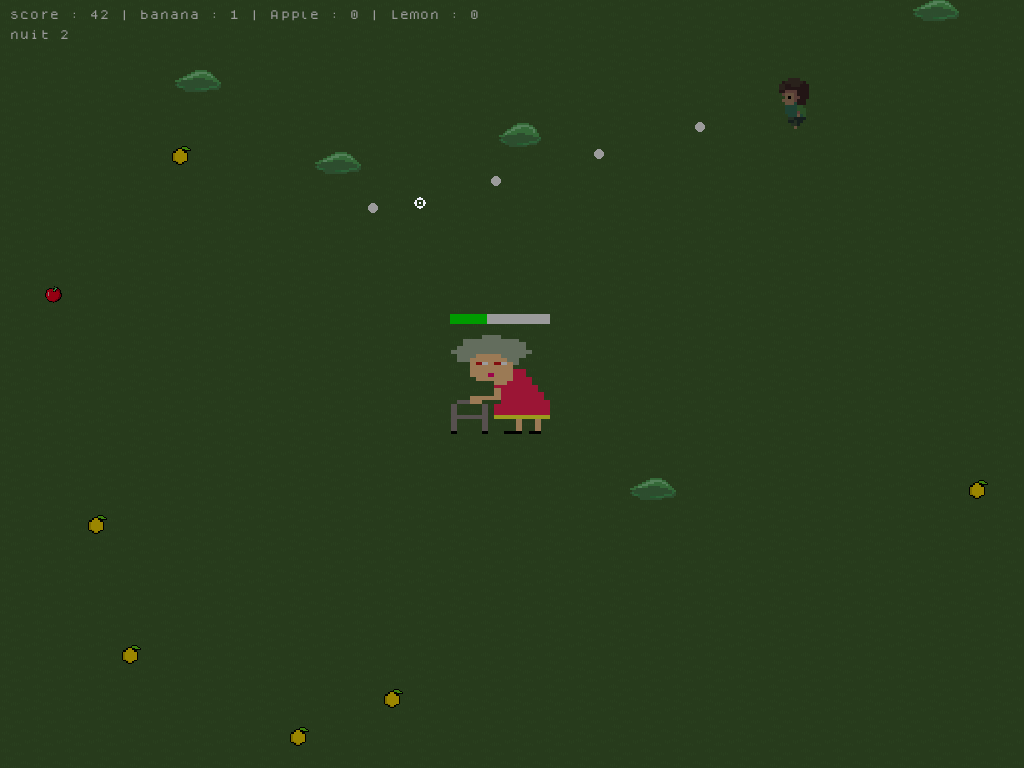
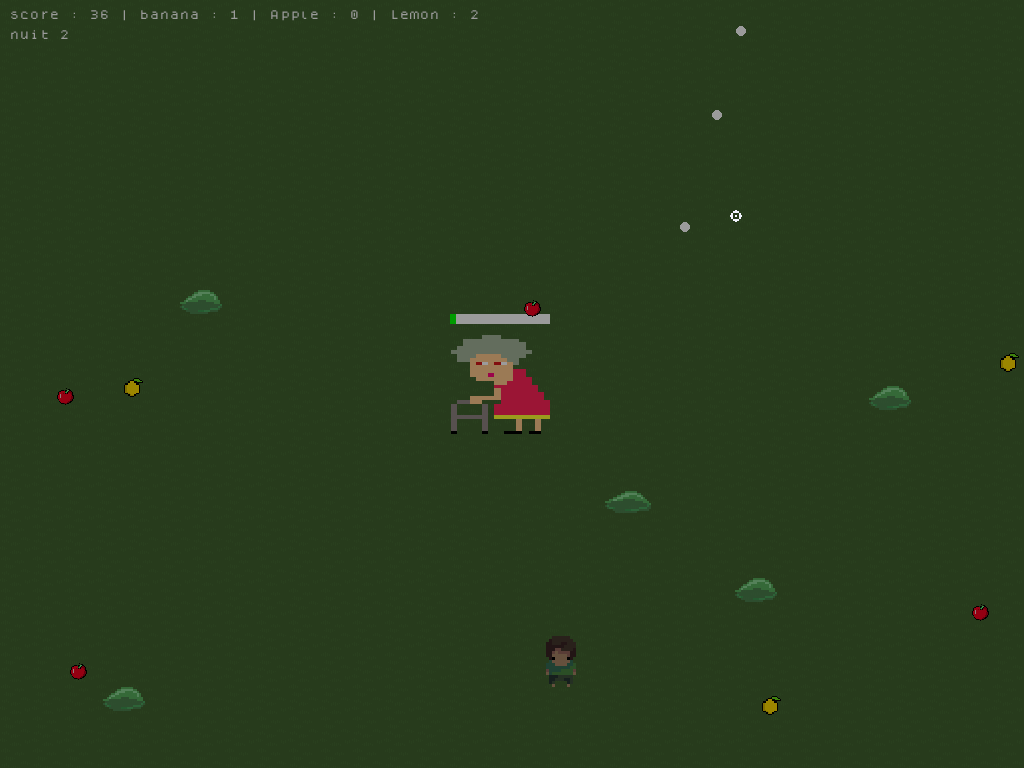
reglage bug

diff --git a/gamejam_project/gamejam_project/main.py b/gamejam_project/gamejam_project/main.py
@@ -113,6 +113,8 @@ if __name__ == '__main__':
         while restart:
             music_theme.stop()
             music_quest.play()
+            time_cycle_before = pygame.time.get_ticks()
+            time_cycle = pygame.time.get_ticks()
             while not perdu:
                 dt = clock.tick(60)
                 time = pygame.time.get_ticks() - time_Before
@@ -284,7 +286,7 @@ if __name__ == '__main__':
                 text_score = font.render("Score: " + str(score), 1, (255, 255, 255))
                 font = pygame.font.Font('fonts/dogica.ttf', 10)
                 text_play_again = font.render("Press r to play again", 1, (255, 255, 255))
-                text_quit = font.render("Press e to exit", 1, (255, 255, 255))
+                text_quit = font.render("Press e to menu", 1, (255, 255, 255))
 
                 WIN.blit(text, (80, 150))
                 WIN.blit(text_score, (430, 460))
@@ -293,32 +295,50 @@ if __name__ == '__main__':
                     WIN.blit(text_quit, (430, 520))
                 timer += 0.05
 
-                grandma.setLife(100)
-                score = 0
-                compteur_cycle = 1
-                time_cycle_before = pygame.time.get_ticks()
-                time_cycle = pygame.time.get_ticks()
-                time_Before = pygame.time.get_ticks()
-                nbBanana = 0
-                nbApple = 0
-                nbLemon = 0
-                darkness = 0
-                player.inventory.clear()
-                enemies.clear()
-                fruits.clear()
-                bullets.clear()
-                cycle.day = True
-                cycle.night = False
-
                 keys = pygame.key.get_pressed()
                 if keys[pygame.K_r]:  # r pressed (for restart)
                     perdu = False
                     restart = True
+                    grandma.setLife(100)
+                    score = 0
+                    compteur_cycle = 1
+                    time_cycle_before = pygame.time.get_ticks()
+                    time_cycle = pygame.time.get_ticks()
+                    time_Before = pygame.time.get_ticks()
+                    nbBanana = 0
+                    nbApple = 0
+                    nbLemon = 0
+                    darkness = 0
+                    player.inventory.clear()
+                    enemies.clear()
+                    fruits.clear()
+                    bullets.clear()
+                    cycle.day = True
+                    cycle.night = False
+                    player.setPoint(Point(100,100))
 
                 if keys[pygame.K_e]:  # q pressed (for exit)
                     perdu = False
                     restart = False
                     waitUserResponse = True
+                    grandma.setLife(100)
+                    score = 0
+                    compteur_cycle = 1
+                    time_cycle_before = pygame.time.get_ticks()
+                    time_cycle = pygame.time.get_ticks()
+                    time_Before = pygame.time.get_ticks()
+                    nbBanana = 0
+                    nbApple = 0
+                    nbLemon = 0
+                    darkness = 0
+                    player.inventory.clear()
+                    enemies.clear()
+                    fruits.clear()
+                    bullets.clear()
+                    cycle.day = True
+                    cycle.night = False
+                    player.setPoint(Point(100,100))
 
                 pygame.display.update()
                 pygame.event.pump()
+

diff --git a/gamejam_project/gamejam_project/Model/Player.py b/gamejam_project/gamejam_project/Model/Player.py
@@ -98,6 +98,9 @@ class Player:
             self.inventory.append(fruit)
             return True
 
+    def setPoint(self, point: Point):
+        self.point = point
+
     # Used to draw the current image of the player at the right location of the screen
     def draw(self, window):
         window.blit(self.player_img, (self.point.x, self.point.y))
